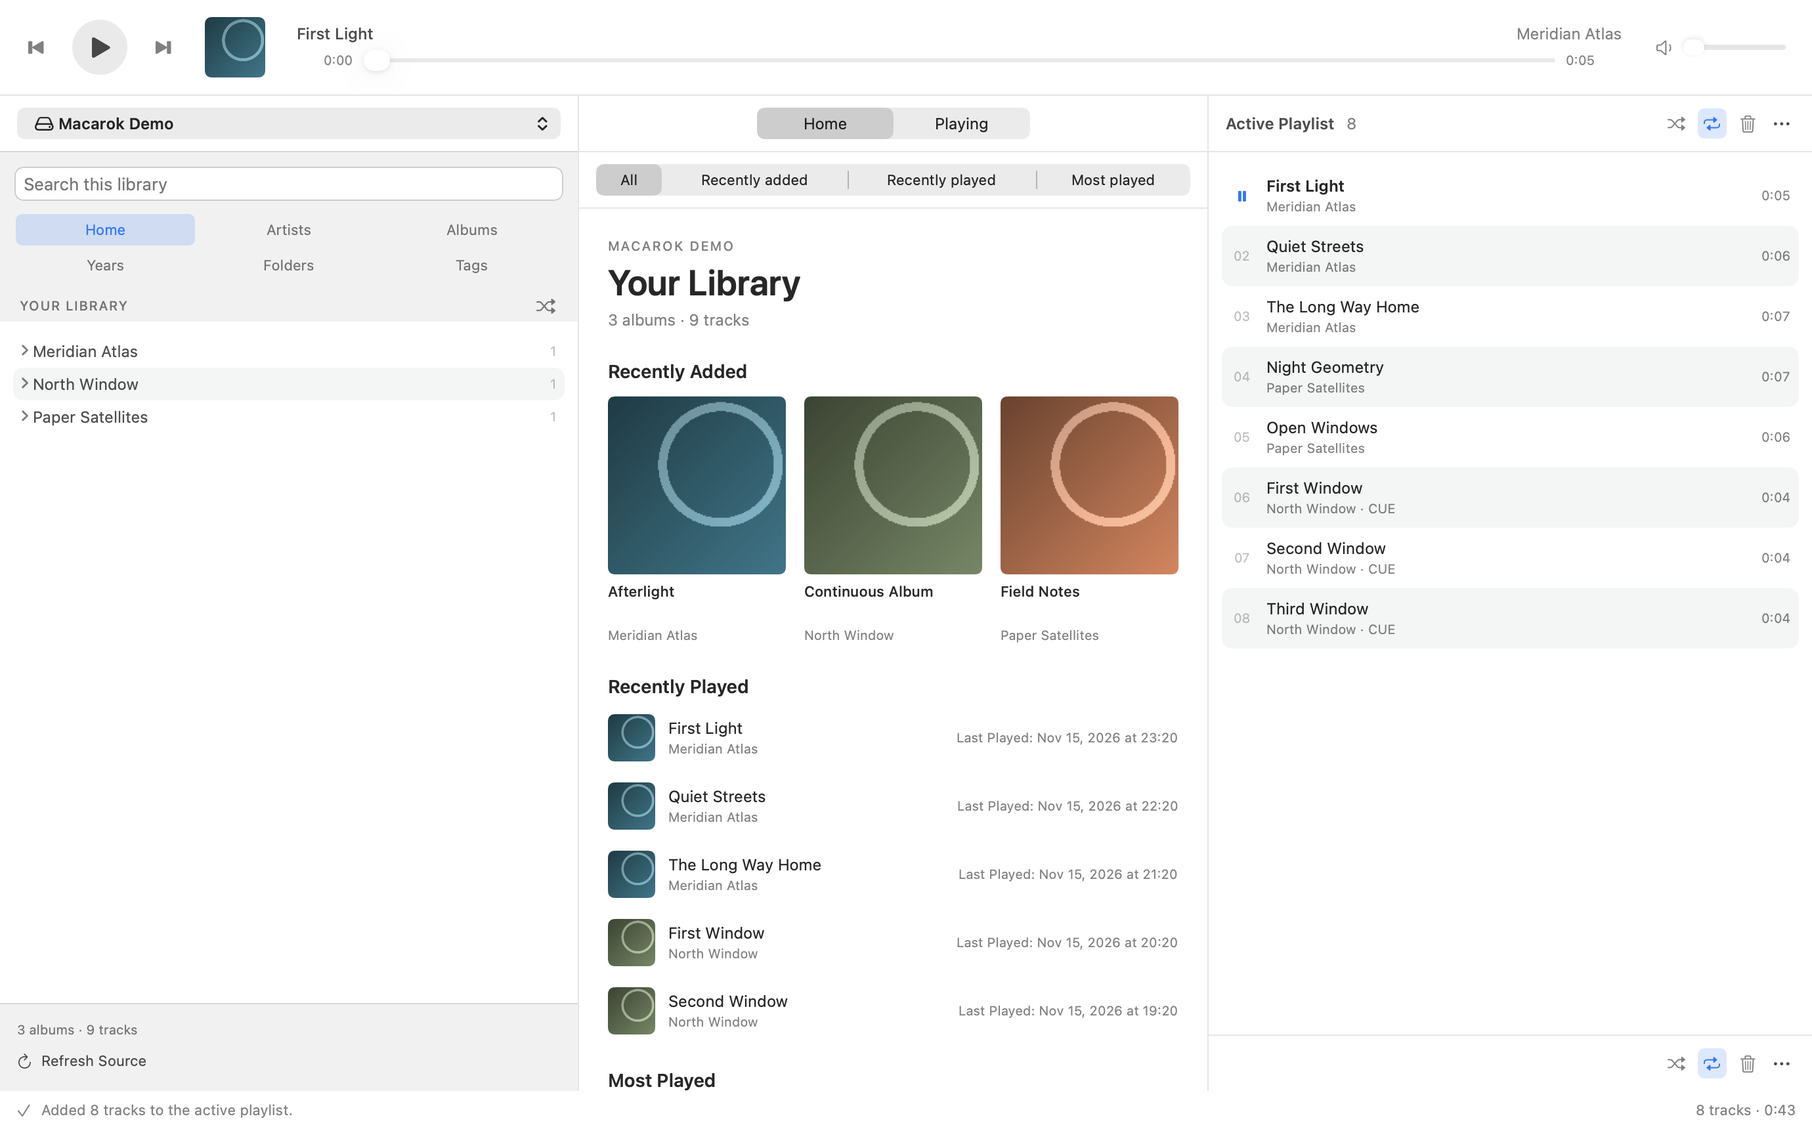
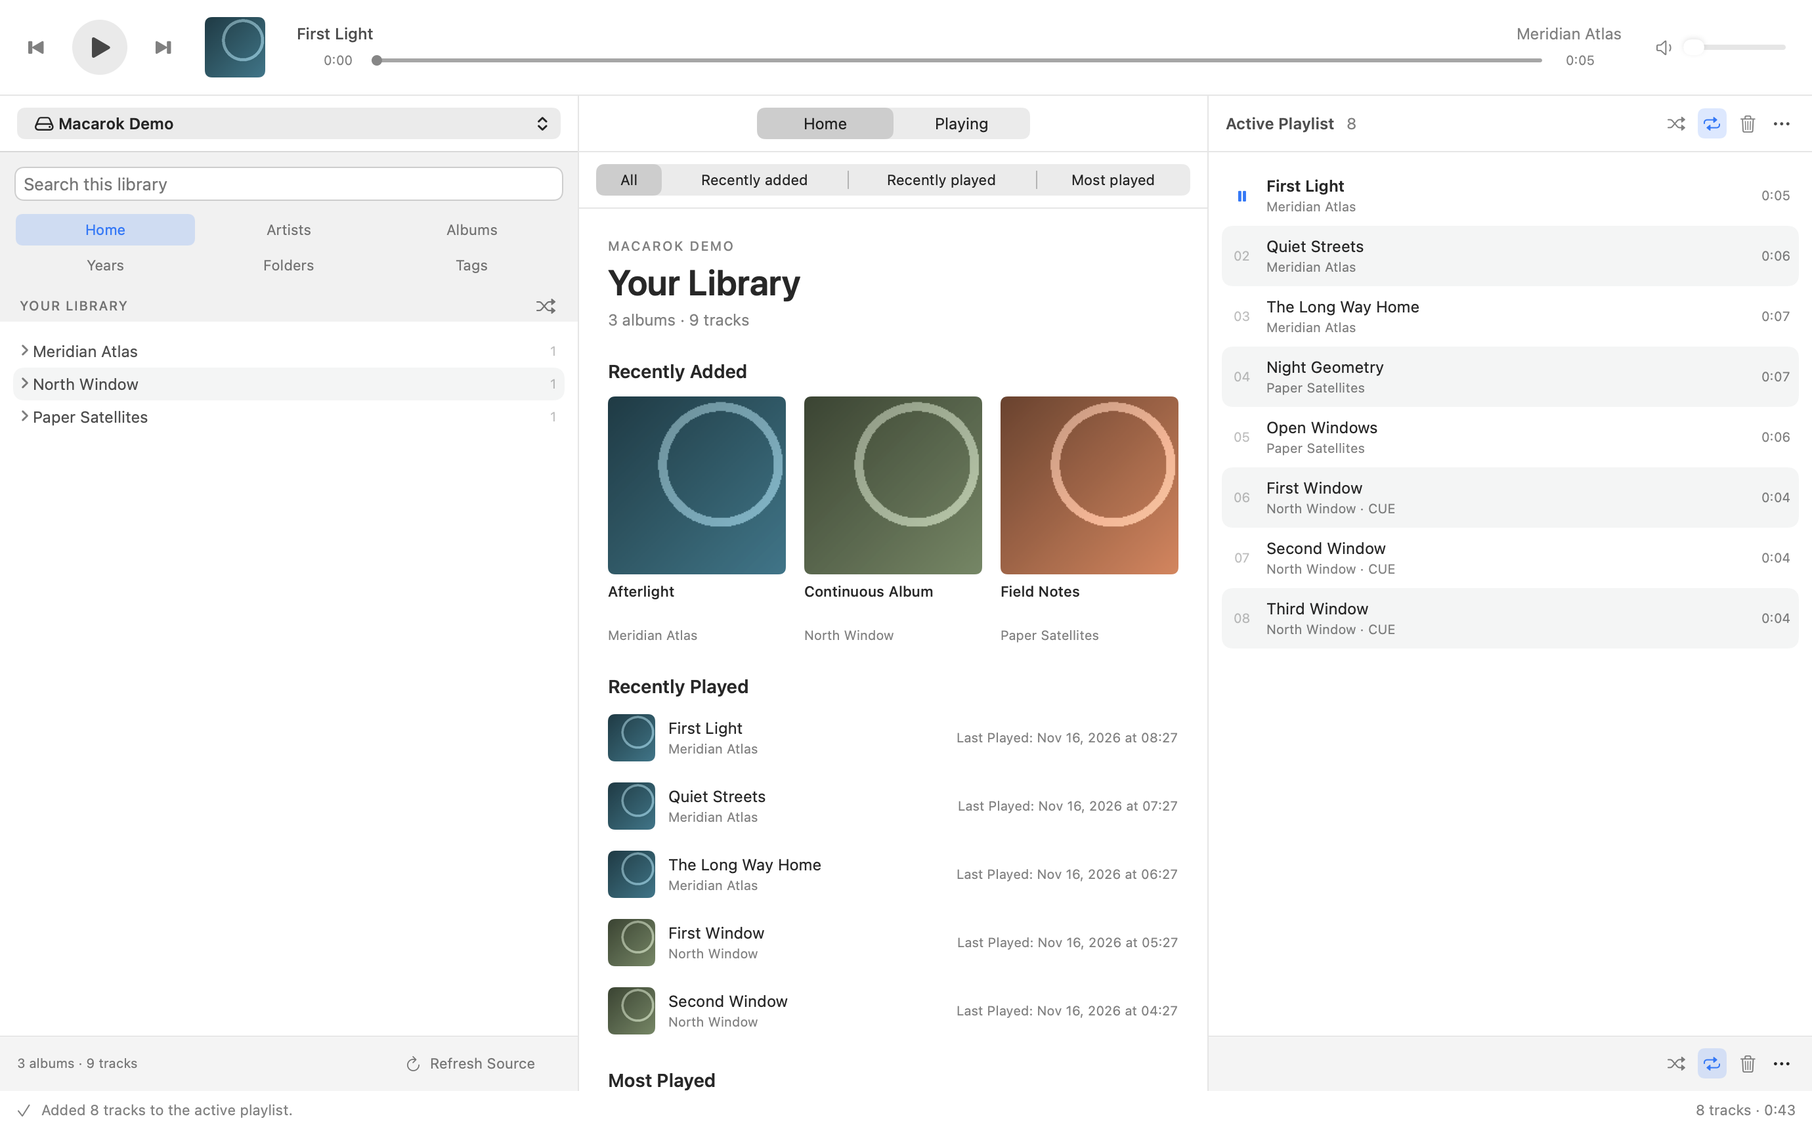
Record mini player, footer and timeline validation

diff --git a/docs/TESTING.md b/docs/TESTING.md
@@ -32,11 +32,15 @@ The menu-tracking regression plays a silent WAV through real VLC while pumping o
 
 `WindowLayoutTests` verifies that all three panels fill the native hosting window when resized, including startup without sources, an empty source, an empty queue, and unmatched search results. It checks actual split-view geometry in both appearances without imposing a fixed-size SwiftUI root.
 
+`PanelFooterGeometryTests` checks matching 42-point library/playlist rows, compact-width thresholds, refresh/reconnect/stop transitions, and equal footer contrast distinct from the global status bar in Light/Dark.
+
+`PlaybackTimelineSmoothingTests` uses injected sample times to verify bounded cell-only interpolation, immediate seek/pause/input updates, occurrence guards, and unchanged native/accessibility values; timeline pixel tests check the small filled thumb and aligned blue endpoint. `PlaybackTimelineTrackingTests` also holds a drag open across stale clock/view writes and verify exact final endpoints, cancellation, and authoritative values after an external seek.
+
 `CenterNavigationTests` covers retained Home filters and Context tabs, playback-following behavior, visible editor and artwork pins, retained inactive drafts, direct song/album editor target inheritance, manual inspection across ordinary mode changes, late editor completion, and merging drafts without replacing newer artwork or history. `ScrobblingSettingsAlignmentTests` checks the real credential text fields in the grouped macOS Form in both appearances, using injected fake credentials without Keychain or network access.
 
 `AlbumMetadataEditorTests` checks complete source-specific album selection under search, duplicate albums in other sources, preserved queue identities and concurrent track corrections, ordinary FLAC tag/audio preservation, external CUE rescans, embedded CUE batching, and partial file-write errors. `AlbumMetadataRenderingTests` renders the real central album editor at 370 and 590 points in Light/Dark, verifying its five shared fields, pinned draft after a queue change, and centered native mode selectors with readable compact labels and full tooltips.
 
-`NativeListBackgroundTests` compares pixels from a real SwiftUI List in both appearances: actual rows must alternate while the complete empty viewport remains uniform after 2 → 4 → 1 → 0 entries and resizing. It also checks pass-through hit testing, native selection/delegate preservation, and mask geometry during native outline expansion/collapse. `MenuBarControllerTests` uses an injected status-item host to check opt-in preference migration, enable/disable lifecycle, current action state, callbacks, and model updates without changing the user's system menu bar.
+`NativeListBackgroundTests` compares pixels from a real SwiftUI List in both appearances: actual rows must alternate while the complete empty viewport remains uniform after 2 → 4 → 1 → 0 entries and resizing. It also checks pass-through hit testing, native selection/delegate preservation, and mask geometry during native outline expansion/collapse. `MenuBarControllerTests` uses an injected status-item host to check opt-in preference migration, enable/disable lifecycle, current action state, callbacks, and model updates without changing the user's system menu bar. `MenuBarMiniPlayerTests` renders the real popover content in both appearances, checks loaded cover pixels and same-path artwork replacement, and covers empty/radio presentations and disabled actions. The retained presentation must not keep its controller or application model alive.
 
 Progressive catalog tests gate API responses and controller batches to prove that tracks are persisted, searchable, and queueable before completion. They cover cancellation, later request failures, stale refresh generations, source changes, and success-only reconciliation. Folder tests include a synthetic 30,000-track, 7,000-folder catalog and cancellation; the folder tree is built off the main thread.
 
@@ -117,7 +121,7 @@ Open Edit album metadata from Playing or an album's context menu while search ma
 
 Compare library and playlist alternation in Light/Dark with only a few entries, then add/remove entries, resize, scroll, and expand artists, albums, and folders. Actual rows should alternate; the area after the last real row must have no placeholder stripes. Selection, context menus, drag/reorder, and native keyboard navigation must continue working.
 
-In Settings → General, verify that Show Macarok in the menu bar starts disabled. Enable it, inspect the English title/artist and playback actions, close the main window, and use Show Macarok to reopen it. Advance the queue while the status menu is open; actions should control the current entry. Check radio Pause/Reconnect, disable the option during playback, and restart to confirm the preference is retained. Automated host tests cover state and callbacks; this manual check verifies actual macOS status-item presentation.
+In Settings → General, verify that Show Macarok in the menu bar starts disabled. Enable it and click its icon to open the mini player. Check its artwork, English title/artist, and playback controls in Light/Dark, then close the main window and use Show Macarok to reopen it. Advance the queue while the popover is open; artwork and metadata should update and actions should control the current entry. Check radio Pause/Reconnect, disable the option during playback, and restart to confirm the preference is retained. Automated host tests cover state and callbacks; this manual check verifies actual macOS status-item presentation.
 
 Clear Playlist should keep only the exact current entry while playing, opening, or buffering, with uninterrupted position. Pause, clear, and confirm the entire queue becomes empty. Repeat for a stopped or restored playlist. Command-Z should undo Clear without autoplay or seeking; Shift-Command-Z should redo it. Add after Clear and confirm Undo removes the new addition before undoing Clear. Repeat with removal, move, shuffle, duplicate tracks, and updated metadata. Editing text must retain its own undo history.
 

diff --git a/docs/VERIFICATION.md b/docs/VERIFICATION.md
@@ -6,6 +6,10 @@ The completed-check records below describe their respective revisions. The curre
 
 ## Completed checks
 
+- The mini-player, footer, Settings, and timeline follow-up passed the complete suite on 16 November 2026: **437 tests, zero failures** — Core 172, Metadata 17, Audio 20, App 228. Log: `.build/mini-player-footer-timeline-full.log`. Coverage includes opt-in status-item lifecycle and weak ownership, current-entry actions, asynchronous cover replacement, radio/empty mini-player views, single-row footer geometry and contrast, received-sample interpolation, and native mouse tracking across queued clock updates, external seeks, and occurrence replacement.
+- The isolated native validation app confirmed the simplified General, Playback, and Shortcuts Settings tabs. Light/Dark checks verified the small filled thumb, aligned blue progress endpoint, equal footer heights/backgrounds, and separation from the global status bar. Actual mouse drags reproduced the old backward-seek problem before the final input change; the rebuilt control then reached 22.523 and 67.504 seconds during playback and 22.512 and 44.924 seconds while paused at the corresponding pointer locations, without snapping back. The silent fixture and its artwork lived under `.build`; the validation app was closed without operating the user's player/library. Mini-player contents/artwork have native offscreen renders; the system status-item click remains in the manual checklist below.
+- The Release app was rebuilt and passed deep strict signature verification. Both the bundle and executable retain macOS **14.0** as the minimum; signing remains local/ad-hoc. Log: `.build/mini-player-footer-timeline-release-build.log`. No public release tag or DMG was replaced.
+
 - The podcast-order, timeline-contrast, and Playing-context follow-up passed the complete suite on 16 November 2026: **420 tests, zero failures** — Core 172, Metadata 17, Audio 20, App 211. Log: `.build/podcast-slider-context-final-tests.log`. Regressions cover cached/search feed order, complete group actions, independent source copies, unchanged queue entries, native thumb outline geometry/contrast in both appearances, visible versus retained editor drafts, direct song/album editor transitions, manual inspection, and late save completion after leaving an editor.
 - The isolated native validation app played two silent synthetic local tracks. After entering an unsaved first-track draft, switching to Context → Tags, and advancing playback, the central title and tags followed the second track while retaining Context/Tags. Returning to Edit song metadata restored the first-track draft; Cancel returned to the second track. Native Light/Dark checks verified a circular outline centered on the timeline and visible native volume controls. The validation process was closed; the user's player and library were not operated. Updated component renders are in `design/native/podcast-timeline-*.png`.
 - The Release app was rebuilt and passed deep strict signature verification. Both the bundle and executable retain macOS **14.0** as the minimum; signing remains local/ad-hoc. Log: `.build/podcast-slider-context-release-build.log`. No public release tag or DMG was replaced.
@@ -55,7 +59,7 @@ Build/test logs and full-resolution renders are kept under the ignored `.build` 
 
 The Mac was locked during the initial automated run. On 15 November, the empty-window height issue was reproduced in the running app and visually verified after rebuilding and reopening the corrected Release bundle. Four new geometry regressions cover no sources, a configured empty source, a populated library with an empty queue, and unmatched search results, in both appearances at several window sizes. The original code fails the empty-window regression. All four tests and the existing native render test pass.
 
-File pickers, drag/reorder, custom shortcut recording, and Mac media keys still need manual verification. The corresponding controller/transport paths have automated coverage. Artist/album double-clicks and Settings-owned certificate acceptance/rejection with the main window closed were exercised in the isolated validation app.
+File pickers, drag/reorder, custom shortcut recording, and Mac media keys still need manual verification. The menu-bar status-item click/popover with the main window closed also remains a manual check: the desktop automation surface did not expose the app's status item. Its mini-player content, artwork reloads, actions, and ownership/lifecycle have offscreen and injected-host coverage. The corresponding controller/transport paths have automated coverage. Artist/album double-clicks and Settings-owned certificate acceptance/rejection with the main window closed were exercised in the isolated validation app.
 
 Live MusicBrainz/AcoustID results and personal OpenSubsonic servers have not been verified. Metadata lookup protocol tests use fixtures; AcoustID requires your own application client key. Live Bandcamp authentication, public podcast/radio directory availability, and personal Last.fm browser authorization/submission require separate manual checks; their automated paths use isolated fixtures. Last.fm requires personal API credentials and an explicitly authorized account. Follow `TESTING.md` and `DEMO-SERVER.md` for a reproducible manual session with synthetic data.
 

diff --git a/docs/PRODUCT.md b/docs/PRODUCT.md
@@ -26,7 +26,7 @@ An active metadata or artwork editor pins its original track and draft while pla
 
 Library and playlist lists use the same native alternating row style. The unused viewport below the last actual row stays plain, including after adding/removing entries, resizing, scrolling, or expanding folders. A transparent view covers only that unused canvas; native row selection, keyboard navigation, drag operations, context menus, and scrollbars remain owned by AppKit.
 
-Settings → General → Menu Bar offers **Show Macarok in the menu bar**, disabled by default and remembered across launches. The system menu bar item shows the current title and artist, Play/Pause or radio Reconnect, Previous, Next, Show Macarok, and Quit Macarok. Playback controls remain available while the main window is closed. Disabling the option removes the item without changing playback or keyboard preferences.
+Settings → General → Menu Bar offers **Show Macarok in the menu bar**, disabled by default and remembered across launches. Clicking the system menu bar item opens a compact native player with album artwork, the current title and artist, Play/Pause or radio Reconnect, Previous, Next, Show Macarok, and Quit Macarok. Playback controls remain available while the main window is closed. Disabling the option removes the item without changing playback or keyboard preferences.
 
 A single click inspects an item. Double-clicking a library track, album, or artist starts its first available track when the active playlist is empty. With an existing playlist, individual tracks follow the Track double-click preference: Add to Playlist, Add After Current Track, or Play Now. Double-clicking a playlist entry plays that existing entry.
 
@@ -52,7 +52,7 @@ Podcast discovery offers Podcast Index by default and an Apple Podcasts selector
 
 Podcast streaming retains a bounded RAM buffer; durable episode files require Download Episode. Completed downloads stay until explicitly removed, and Reveal in Finder locates the source-specific file. The timeline layers gray unavailable data, white buffered/downloaded ranges, and blue playback progress. Byte-to-time coverage is approximate for variable bitrate, and unknown lengths have no percentage. See [podcast storage and cleanup](PODCASTS.md).
 
-Podcast episodes within a feed use publication dates in descending order throughout the library and search, with undated episodes last. The timeline's native knob has a light-gray outline in Dark and a dark-gray outline in Light; the native volume control retains its existing visible border.
+Podcast episodes within a feed use publication dates in descending order throughout the library and search, with undated episodes last. The timeline uses one small filled circle, light gray in Dark and dark gray in Light, centered on the played-progress endpoint. Only the seek cell smooths movement toward confirmed playback samples, for at most 200 milliseconds; controls, lyrics, history, and scrobbling retain the measured audio time. The native volume control retains its existing visible border.
 
 Wikipedia context uses artist or album metadata for an English Wikipedia page or search result, with editable search and Open in Browser. Loading is limited to the visible pane, follows the central pinned/current target, and rejects obsolete navigation. The unmodified page retains its own attribution and licenses. See [Wikipedia context](WIKIPEDIA.md).
 
@@ -67,6 +67,8 @@ Connecting a server retrieves its album list in pages of 500. Each page's albums
 SQLite retains the indexed titles, artists, albums, tags, durations, remote IDs, paths, and cover references. Startup and source switching display this cached catalog immediately; an explicit Refresh currently repeats the complete metadata traversal. OpenSubsonic audio is requested for playback through an in-memory streaming buffer. Cover images are fetched on demand and stored in the separate Artwork cache.
 
 Cancellation or a later request failure keeps both the previous cache and newly committed albums usable. Missing-track reconciliation runs only after a successful complete retrieval and updates only availability differences. An interrupted import remains marked incomplete across restarts; Refresh traverses the catalog again. Remote cover caches survive refresh while their cover IDs remain unchanged.
+
+Library and playlist footers share a fixed single-row height, an opaque native control background, and a top divider, distinct from the full-width status bar. Library totals and refresh controls share that row; compact widths keep the full counts and action available through accessible labels and tooltips.
 
 The library footer starts refresh, changes to Stop Refresh while active, shows progress, and waits in Stopping while cancellation completes. Cancelling clears already queued local rescans so the same operation does not immediately restart.
 

diff --git a/README.md b/README.md
@@ -42,7 +42,7 @@ To build a versioned disk image locally, run `./scripts/package-dmg.sh 0.1.0 1`.
 - Matching native alternating rows in the library and playlist; unused space below the last entry stays plain.
 - Mac media keys, configurable local and global shortcuts, held Left / Right keys for seeking, and adjustable streaming buffering.
 - Prepared next-track handoffs, targeted local rescans, playback stall detection, and a session-only **Help → Playback Diagnostics…** panel with explicit export.
-- Optional system menu bar controls for playback and reopening the player, disabled by default.
+- Optional menu bar mini player with album artwork, playback controls, and main-window access, disabled by default.
 - Optional Last.fm scrobbling with personal API credentials, browser authorization, source exclusions, and a persistent submission queue.
 - Metadata cleanup, MusicBrainz release matching with change previews, TagLib file writes, and embedded/local/web artwork.
 - Separate song and album editors. Album edits apply changed shared fields to the complete album in its actual source while preserving individual titles, numbering, CUE boundaries, and listening history.
@@ -77,7 +77,7 @@ The metadata editor keeps its target and draft while the next track plays:
 
 The separate album editor is also rendered in [Light](design/native/album-metadata-light.png) and [Dark](design/native/album-metadata-dark.png), with compact [Light](design/native/album-metadata-narrow-light.png) and [Dark](design/native/album-metadata-narrow-dark.png) layouts at the minimum central-panel width.
 
-Additional native renders show [real alternating rows](design/native/list-rows-dark.png), [buffered podcast coverage](design/native/podcast-timeline-dark.png), and a [completed episode download](design/native/podcast-timeline-downloaded-dark.png). See [playback performance](docs/PLAYBACK-PERFORMANCE.md) for the background work and streaming architecture.
+Additional native renders show the [menu bar mini player](design/native/menu-bar-mini-player-dark.png), [single-row panel footers](design/native/panel-footers-dark.png), [real alternating rows](design/native/list-rows-dark.png), [buffered podcast coverage](design/native/podcast-timeline-dark.png), and a [completed episode download](design/native/podcast-timeline-downloaded-dark.png). See [playback performance](docs/PLAYBACK-PERFORMANCE.md) for the background work and streaming architecture.
 
 The playback diagnostics panel is previewed in [Light](design/native/playback-diagnostics-light.png) and [Dark](design/native/playback-diagnostics-dark.png).
 

diff --git a/docs/PLAYBACK-PERFORMANCE.md b/docs/PLAYBACK-PERFORMANCE.md
@@ -14,7 +14,11 @@ Retained byte ranges describe reusable RAM, not a cumulative download. Evicted b
 
 A shared `VLCLibrary` avoids constructing a libVLC context for every track. Each item retains its own lightweight player/delegate identity, so callbacks cannot complete a replacement item. Local files and mounted shares receive file caching as well as network caching for streams.
 
-`PlaybackTimeline` owns position, duration, seekability, and buffering publications. Equality guards suppress duplicate values. Only the compact seek control and a small synchronized-lyrics observer sample this clock. The lyric stack updates when the active line changes; its timer-driven observer does not rebuild the stack on every position sample. The buffer sampler retains its publisher in SwiftUI state. Playlist and radio panels observe playback state. Queue-entry lookup and source-kind lookup use indexes, while each metadata batch assigns the queue once and retains its UUIDs and selection.
+`PlaybackTimeline` owns position, duration, seekability, and buffering publications. Equality guards suppress duplicate values.
+
+The native seek cell interpolates only toward received positions for at most 200 milliseconds, sharing one geometry for its filled thumb and played bar. It never predicts future playback time or publishes animation frames through the model. Pausing, buffering, seeking, dragging, changing occurrences, and Reduce Motion cancel that presentation interpolation. During a native mouse drag, the control owns its value and range so queued clock/view updates cannot reset the gesture. Release commits the captured native endpoint once; an external seek, replacement, or loss of seekability cancels the old draft.
+
+Only the compact seek control, the visible menu-bar progress row, and a small synchronized-lyrics observer sample this clock. The lyric stack updates when the active line changes; its timer-driven observer does not rebuild the stack on every position sample. The buffer sampler retains its publisher in SwiftUI state. Playlist and radio panels observe playback state. Queue-entry lookup and source-kind lookup use indexes, while each metadata batch assigns the queue once and retains its UUIDs and selection.
 
 Bookmark resolution, security access, and filesystem probes run through `PlaybackPreparationWorker`. The next local item, downloaded podcast, or remote URL/stream is prepared ahead of a transition. Failed prefetches are advisory: foreground playback retries after a share or server returns. Security access stays alive until source removal or application shutdown.
 
